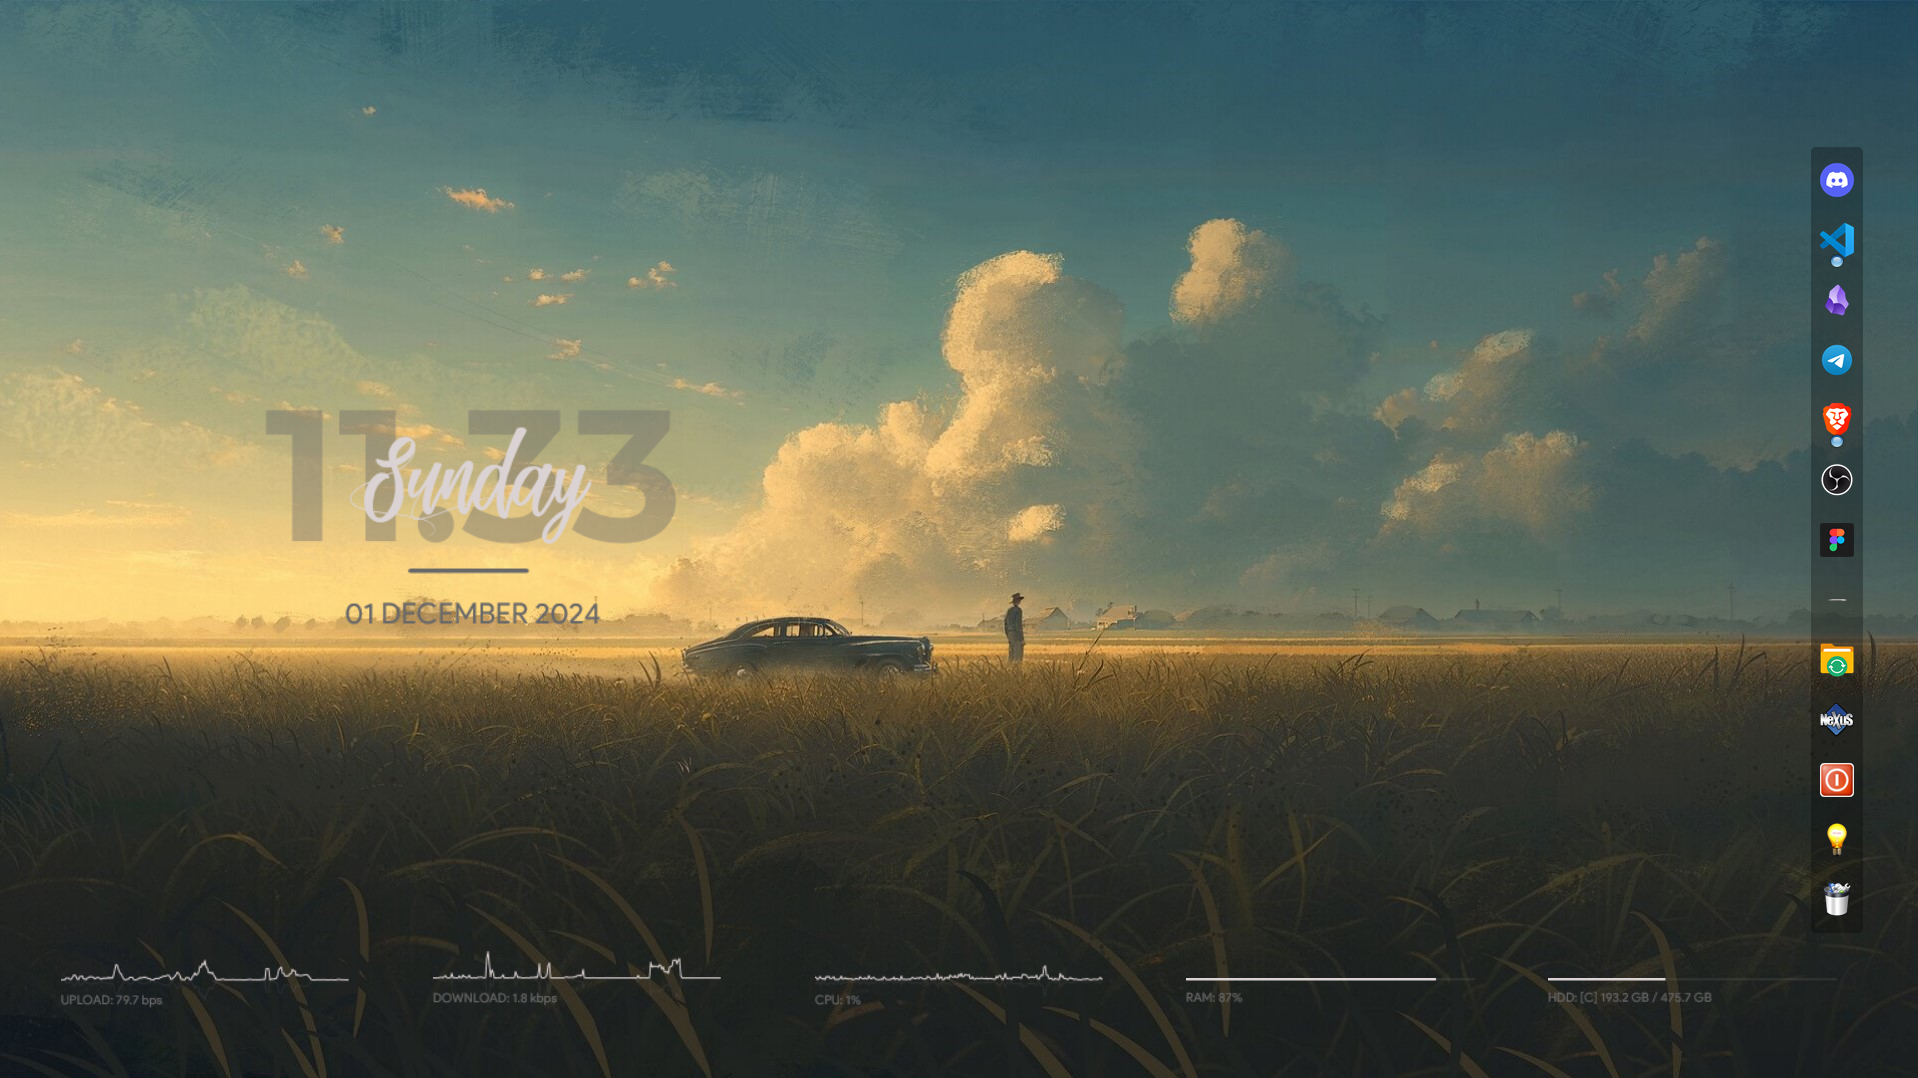
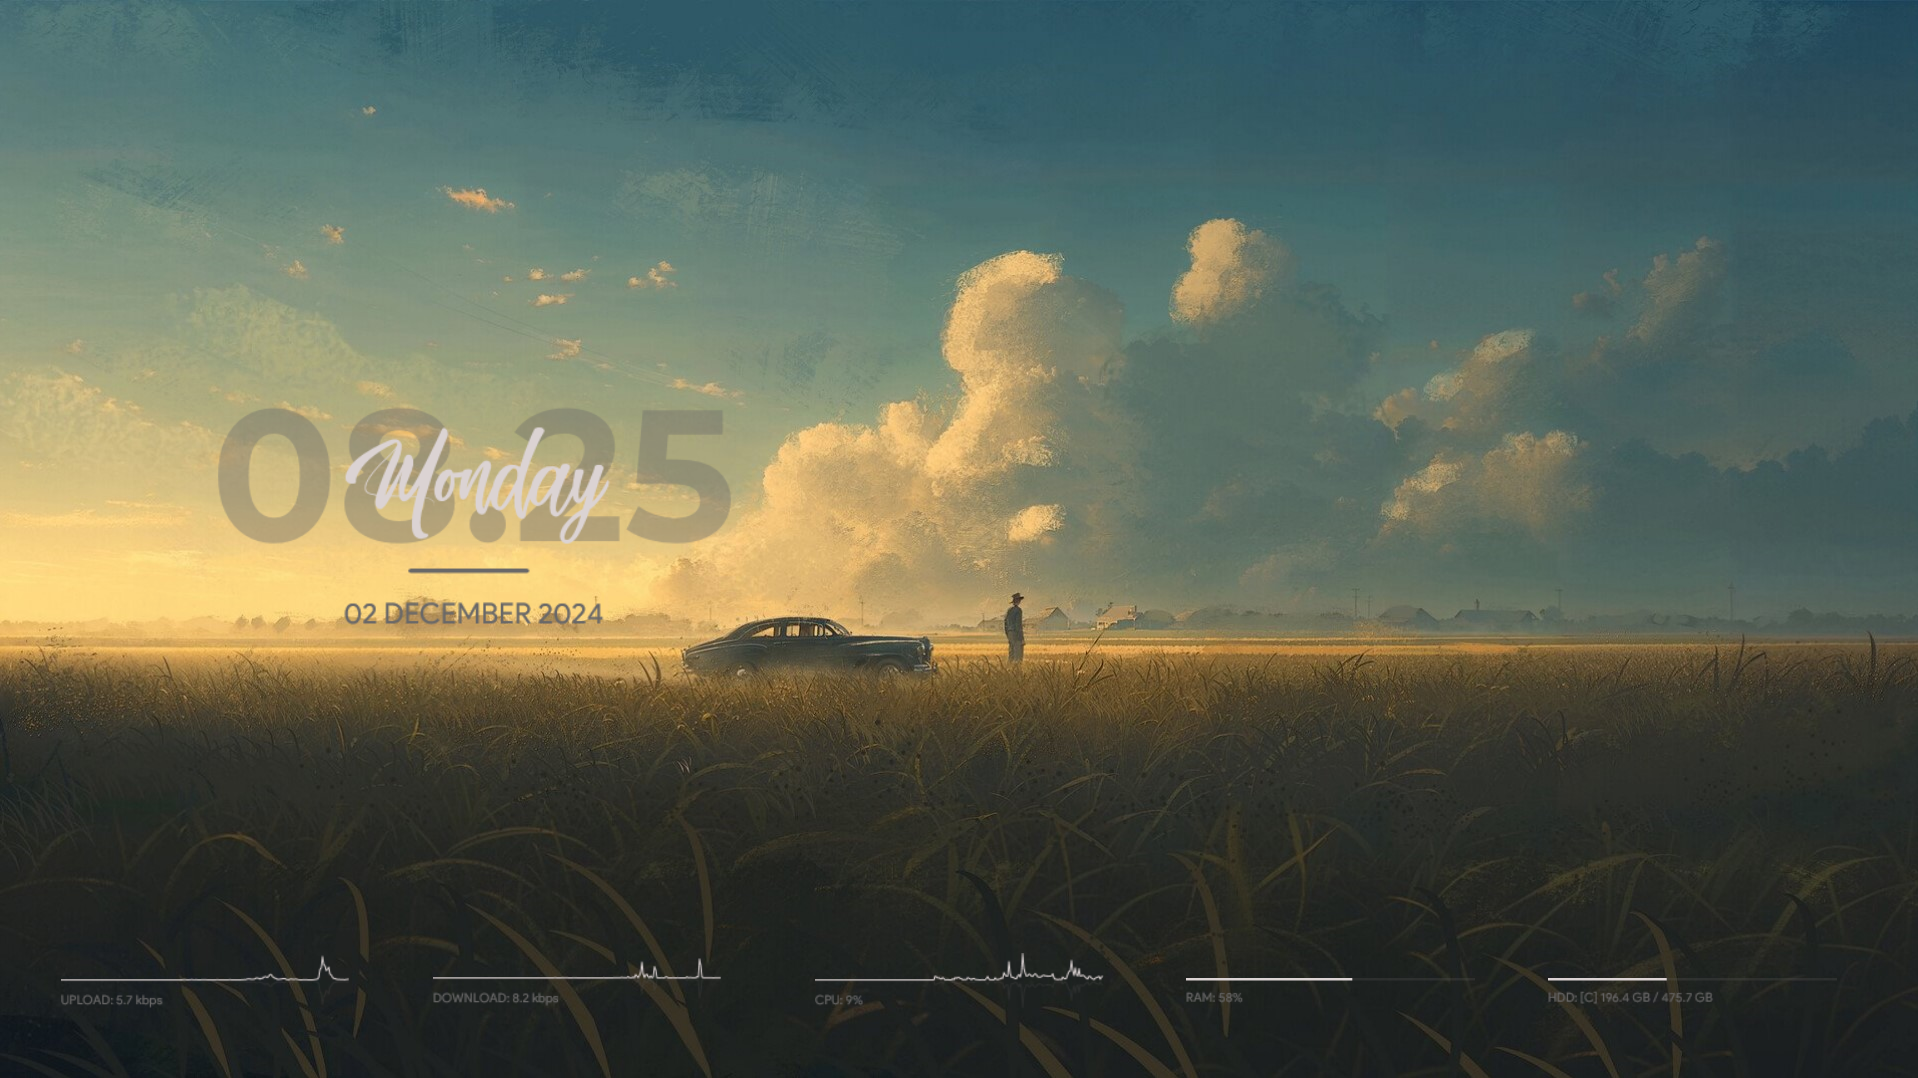
update

diff --git a/README.md b/README.md
@@ -4,10 +4,6 @@ This repo contains the tools and software I used to customize the look of my Win
 
 
 ## Softwares I used:
-### [NeXuS](https://www.winstep.net/nexus.asp)
-I used NeXus add a dock almost similar to Mac but I positioned it into the right side of the screen. NeXus is highly customizable, you can customize it based on your preference.
-
-
 ### [Rainmeter](https://www.rainmeter.net/)
 I used Rainmeter to add additional systems information like the _CPU_, _RAM_, and _SSD_. I also added _Uplaad speed_ and _Download speed_ information, but this is highly customizable, you can add any skin that you'd like. To discover skins that you can use, you can visit this [link](https://www.rainmeter.net/discover/).
 
@@ -20,7 +16,7 @@ I've set my taskbar to "Automatically hide the taskbar", so you couldn't see the
 You can find the wallpaper I used here: [wallpaper](https://ph.pinterest.com/pin/584975439131176050/) 
 
 ### Why?
-tired of the default look of Windows, so I decided to customize it to make it look better. However, it’s still nowhere near the level of customization that others achieve using Linux.
+tired of the default look of Windows, so I decided to customize it to make it look better. However, it’s still nowhere near the level of customization that others achieve using [Linux](https://www.reddit.com/r/unixporn/comments/1h3xnao/hyprland_comfy_catppucin_rice_for_uni/#lightbox).
 
 ## Connect with me!
 - [X/Twitter](https://twitter.com/jfmartinz)
